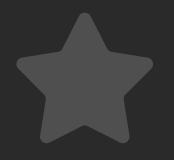
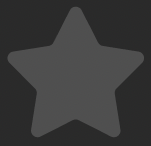
feat(body):section sign up

diff --git a/index.html b/index.html
@@ -132,7 +132,7 @@
                 </article>
             </main>
             <aside class="sidebar " style="width: 250px; ">
-                <h2 style="margin-left: 25px;">I 😍 feedbacks.</h2>
+                <h2 style="margin-left: 40px; ">I 😍 feedbacks.</h2>
                 <article style="margin-right: 32px; width: 382px; height: 48px; ">
                     <img src="/img/star.png " class="star " alt=" ">
                     <img src="/img/star.png " class="star " alt=" ">

diff --git a/style/style.css b/style/style.css
@@ -276,9 +276,8 @@ h2 {
 }
 
 .star {
-  width: 25px;
-  height: 25px;
+  width: 20px;
   flex: none;
-  order: 1;
   flex-grow: 0;
+  margin-left: 8px;
 }/*# sourceMappingURL=style.css.map */

diff --git a/style/_star.scss b/style/_star.scss
@@ -1,7 +1,6 @@
 .star {
-    width: 25px;
-    height: 25px;
+    width: 20px;
     flex: none;
-    order: 1;
     flex-grow: 0;
+    margin-left: 8px;
 }
